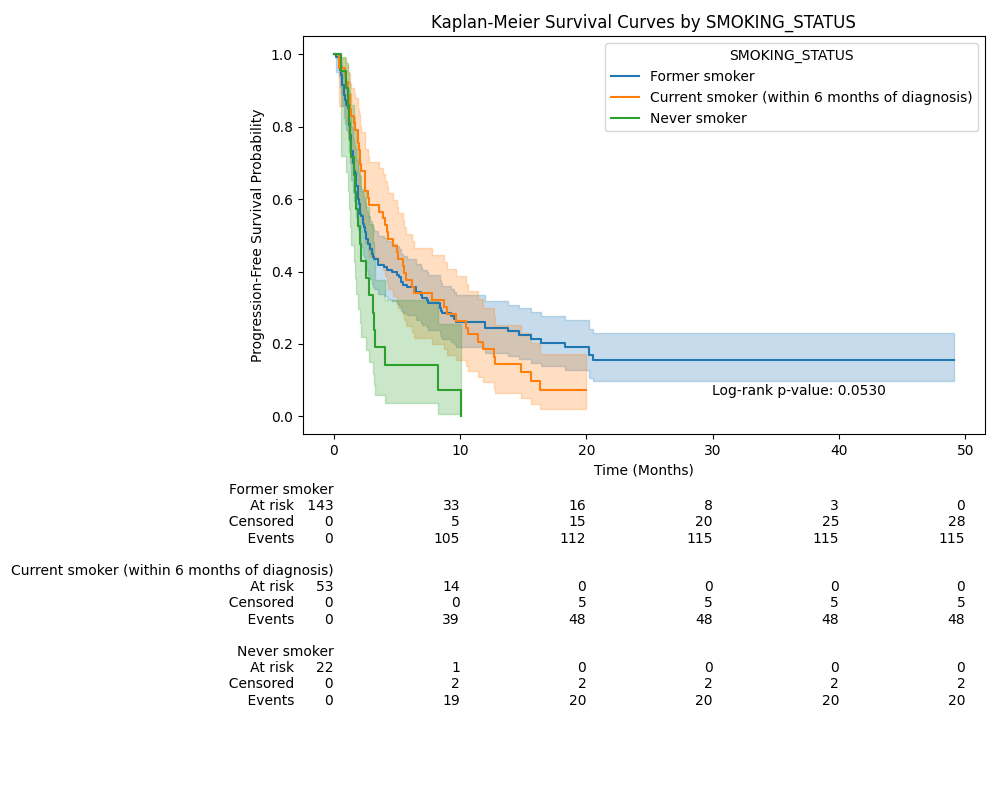
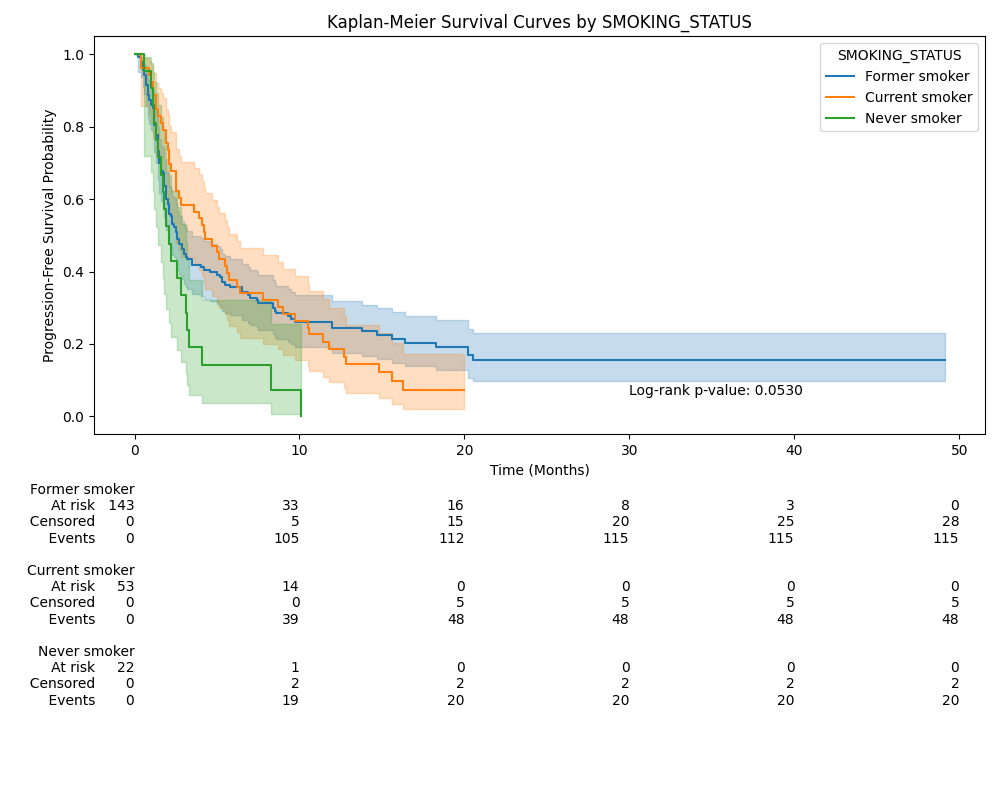
add km quad

diff --git a/coxph-0.2split-rsf copy.py b/coxph-0.2split-rsf copy.py
@@ -1,0 +1,112 @@
+import pandas as pd
+from lifelines import CoxPHFitter
+from matplotlib import pyplot as plt
+import numpy as np
+from sklearn.model_selection import train_test_split
+
+def run_model(df, name):
+    # Train-test split
+    # Split the data into training and testing sets
+    test_size = 0.2
+    # Split the data into training and testing sets
+    train_df, test_df = train_test_split(df, test_size=0.2, random_state=42)
+
+    # Fit the Cox proportional hazards model on the training set
+    cph = CoxPHFitter()
+    cph.fit(train_df, duration_col='PFS_MONTHS', event_col='PFS_STATUS')
+
+    # Print summary of the fitted model
+    cph.print_summary(style="ascii")
+
+    # Optional: Evaluate the model using the test set
+    # For example, you can use the model's concordance index on the test set
+    c_index = cph.concordance_index_
+    print(f"Concordance Index on Training Set: {c_index:.3f}")
+
+    # Evaluate the model on the test set
+    c_index_test = cph.score(test_df, scoring_method="concordance_index")
+    print(f"Concordance Index on Test Set: {c_index_test:.3f}")
+
+    summary_df = cph.summary  # Get the summary as a DataFrame
+    model_metrics = [cph.log_likelihood_, cph.concordance_index_]
+
+    # Add a column for significance level
+    def significance_stars(p):
+        if p < 0.001:
+            return "***"
+        elif p < 0.01:
+            return "**"
+        elif p < 0.05:
+            return "*"
+        else:
+            return ""
+
+    summary_df['significance'] = summary_df['p'].apply(significance_stars)
+
+    print(summary_df)
+
+    concordance = cph.concordance_index_
+    partial_aic = cph.AIC_partial_
+    log_likelihood_ratio_test = cph.log_likelihood_ratio_test().test_statistic
+    ll_ratio_test_df = cph.log_likelihood_ratio_test().degrees_freedom
+    neg_log2_p_ll_ratio_test = -np.log2(cph.log_likelihood_ratio_test().p_value)
+
+    with open(f'cph-{concordance:.2f}-{name}-summary.txt', 'w') as f:
+        f.write(summary_df.to_string())
+        formatted_metrics = '\n'.join([f'{metric:.4f}' for metric in model_metrics])
+        f.write(f"\n\nModel metrics: {formatted_metrics}")
+        
+        # Write additional metrics in the specified format
+        f.write(f"\n\nConcordance = {concordance:.2f}")
+        f.write(f"\nPartial AIC = {partial_aic:.2f}")
+        f.write(f"\nlog-likelihood ratio test = {log_likelihood_ratio_test:.2f} on {ll_ratio_test_df} df")
+        f.write(f"\n-log2(p) of ll-ratio test = {neg_log2_p_ll_ratio_test:.2f}")
+    # Extract the hazard ratios, confidence intervals, and p-values
+    hazard_ratios = np.exp(cph.params_)  # Exponentiate the coefficients to get hazard ratios
+    confidence_intervals = np.exp(cph.confidence_intervals_)  # Exponentiate confidence intervals
+    p_values = cph.summary['p']  # Extract p-values from the summary
+
+    # Plotting the forest plot
+    plt.figure(figsize=(12, 8))
+
+    # Include lambda value in the title 
+    plt.title(f'{name} Hazard Ratios (Test Size: {test_size}, C-index: {c_index:.3f}, 95% CI)')
+
+    # Generate a forest plot for hazard ratios with 95% confidence intervals
+    plt.errorbar(hazard_ratios, range(len(hazard_ratios)), 
+                xerr=[hazard_ratios - confidence_intervals.iloc[:, 0], confidence_intervals.iloc[:, 1] - hazard_ratios],
+                fmt='o', color='black', ecolor='grey', capsize=5)
+
+    # Add labels for the covariates
+    plt.yticks(range(len(hazard_ratios)), cph.params_.index)
+    plt.axvline(x=1, linestyle='--', color='red')  # Reference line at HR=1
+    plt.xlabel('Hazard Ratio (log scale)')
+    plt.xscale('log')  # Logarithmic scale for the hazard ratios
+
+    x_pos = max(hazard_ratios) * 1.4  # Position the p-values far to the right
+    for i, p in enumerate(p_values):
+        if p < 0.05:
+            plt.text(x_pos, i, f'$\\mathbf{{p={p:.3f}}}$', va='center', ha='left', fontsize=8)
+        else:
+            plt.text(x_pos, i, f'p={p:.3f}', va='center', ha='left', fontsize=8)
+
+    # Adjust x-axis limits to ensure p-values are visible
+    plt.xlim(left=min(hazard_ratios) / 2, right=x_pos * 1.15)
+
+    # Display the plot
+    plt.tight_layout()
+    name = name.replace(' ', '-')
+    #plt.savefig(f'cph-{c_index:.2f}-{name}-forest-plot.png')
+    plt.show()
+
+# Without treatment data
+surv = pd.read_csv('survival.csv')
+
+surv.drop(columns = ["PEMBROLIZUMAB", "ATEZOLIZUMAB", "NIVOLUMAB", "CURRENT_SMOKER", "FORMER_SMOKER", "NEVER_SMOKER"], inplace = True)
+
+parameters = ["ALBUMIN", "EGFR_DRIVER", "ERBB2_DRIVER", "DNLR", "IMPACT_TMB_SCORE"]
+
+surv = surv[parameters + ['PFS_MONTHS', 'PFS_STATUS']]
+
+# Drop those with low variance
+run_model(surv, 'MSK MIND LUAD - RSF Selected')

diff --git a/km_quad.py b/km_quad.py
@@ -1,0 +1,34 @@
+from PIL import Image
+from PIL import ImageDraw, ImageFont
+
+# Load the four images
+image1 = Image.open('km_plot_SMOKING_STATUS.png')
+image2 = Image.open('km_plot_IMMUNOTHERAPY.png')
+image3 = Image.open('km_plot_EGFR_DRIVER.png')
+image4 = Image.open('km_plot_STK11_DRIVER.png')
+
+# Determine the size of each image (assuming all images are the same size)
+width, height = image1.size
+
+# Create a new blank image with dimensions to fit all four images in a 2x2 grid
+new_image = Image.new('RGB', (width * 2, height * 2))
+
+
+"""# Load a font
+try:
+    font = ImageFont.truetype("/System/Library/Fonts/Helvetica.ttc", 40)
+except IOError:
+    font = ImageFont.load_default()
+
+# Define labels and their positions
+labels = ['A)', 'B)', 'C)', 'D)']
+positions = [(20, 10), (width + 20, 10), (10, height + 10), (width + 10, height + 10)]
+"""
+
+new_image.paste(image1, (0, 0))
+new_image.paste(image2, (width, 0))
+new_image.paste(image3, (0, height))
+new_image.paste(image4, (width, height))
+
+# Save the resulting image
+new_image.save('km_quad_SMOKE_IO_EGFR_STK11.png')

diff --git a/km.py b/km.py
@@ -1,0 +1,39 @@
+import pandas as pd
+from lifelines import KaplanMeierFitter
+from lifelines.plotting import add_at_risk_counts
+import matplotlib.pyplot as plt
+
+# Load the dataset
+file_path = 'survival.csv'
+data = pd.read_csv(file_path)
+
+# Extract the relevant columns for Kaplan-Meier estimation
+T = data['PFS_MONTHS']
+E = data['PFS_STATUS']
+
+# Replace the values in the 'OS_STATUS' column
+# 0: Censored
+# 1: Event
+E = E.replace('0:LIVING', 0)
+E = E.replace('1:DECEASED', 1)
+print(E)
+
+# Create a KaplanMeierFitter instance
+kmf = KaplanMeierFitter(label = 'MSK MIND 2022')
+
+# Fit the data into the model
+kmf.fit(T, event_observed=E)
+
+print(kmf.event_table)
+
+# Plot the Kaplan-Meier estimate
+plt.figure(figsize=(10, 6))
+kmf.plot_survival_function(ci_show=True)
+plt.title('Kaplan-Meier Survival Curve (95% CI)')
+plt.xlabel('Progression-Free Survival Time (Months)')
+plt.ylabel('Progression-Free Survival Probability')
+plt.grid(True)
+add_at_risk_counts(kmf)
+plt.tight_layout()
+plt.savefig('MSKMIND-Overall-Kaplan-Meier.png')
+plt.show()

diff --git a/kmmaker.py b/kmmaker.py
@@ -8,12 +8,19 @@ from lifelines.plotting import add_at_risk_counts
 # Load the data
 df = pd.read_csv('survival-nodummies.csv')
 
-# List of categorical covariates (excluding quantitative variables)
-categorical_covariates = ['ARID1A_DRIVER', 'BRAF_DRIVER', 'EGFR_DRIVER', 'ERBB2_DRIVER', 'MET_DRIVER',  'STK11_DRIVER', 'SMOKING_STATUS', 'IO_DRUG_NAME']
-
 # Define duration and event columns
 duration_col = 'PFS_MONTHS'
 event_col = 'PFS_STATUS'
+
+# Rename "Current smoker (within 6 months of diagnosis)" to "Current smoker"
+df['SMOKING_STATUS'] = df['SMOKING_STATUS'].replace('Current smoker (within 6 months of diagnosis)', 'Current smoker')
+
+# Rename "IO_DRUG_NAME" to "IMMUNOTHERAPY"
+df['IMMUNOTHERAPY'] = df['IO_DRUG_NAME']
+df.drop('IO_DRUG_NAME', axis=1, inplace=True)
+
+# List of categorical covariates (excluding quantitative variables)
+categorical_covariates = ['ARID1A_DRIVER', 'BRAF_DRIVER', 'EGFR_DRIVER', 'ERBB2_DRIVER', 'MET_DRIVER',  'STK11_DRIVER', 'SMOKING_STATUS', 'IMMUNOTHERAPY']
 
 def create_stage_variable(df, stage_prefix):
     """

diff --git a/info.py b/info.py
@@ -5,3 +5,8 @@ df = pd.read_csv("survival.csv")
 print(df.head())
 
 print(df.info())
+
+# PFS INFO
+print("Minimum PFS: ", df['PFS_MONTHS'].min())
+print(f"Median PFS: {df['PFS_MONTHS'].median()}")
+print("Maximum PFS: ", df['PFS_MONTHS'].max())
